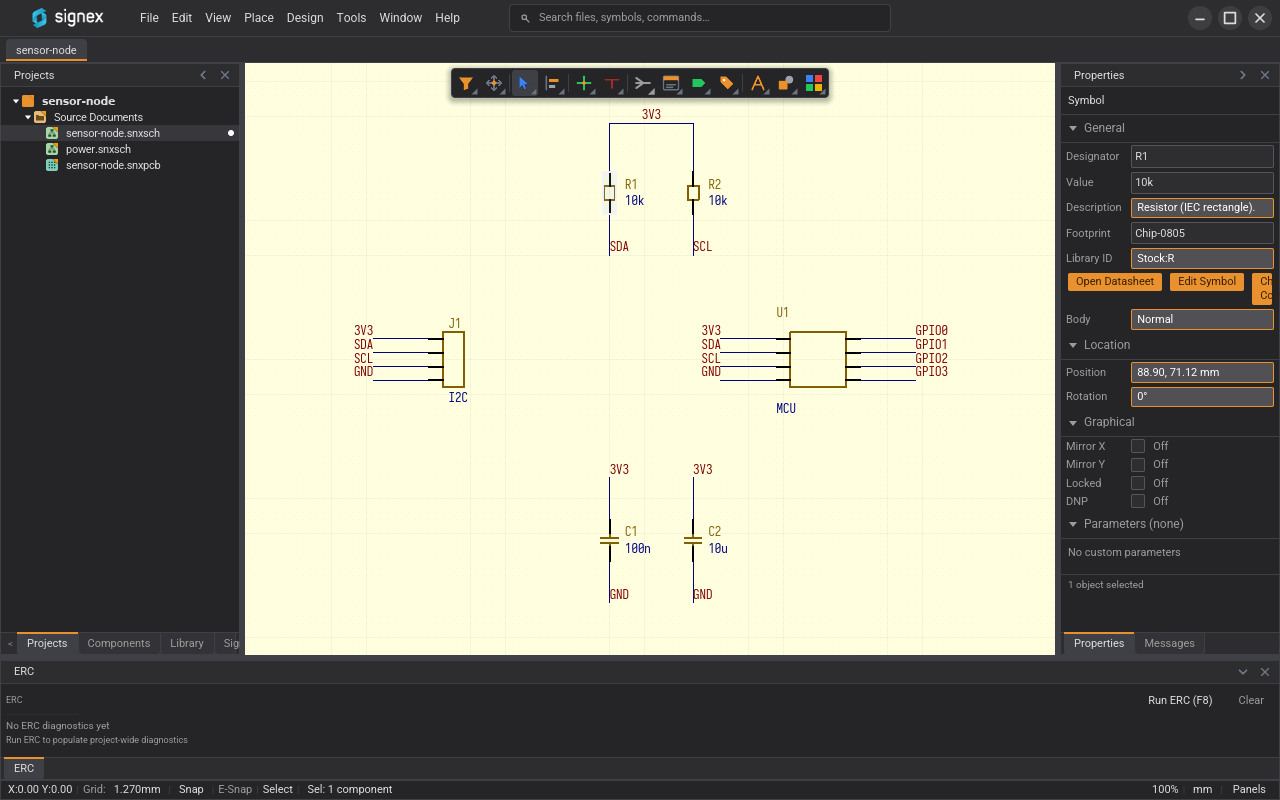
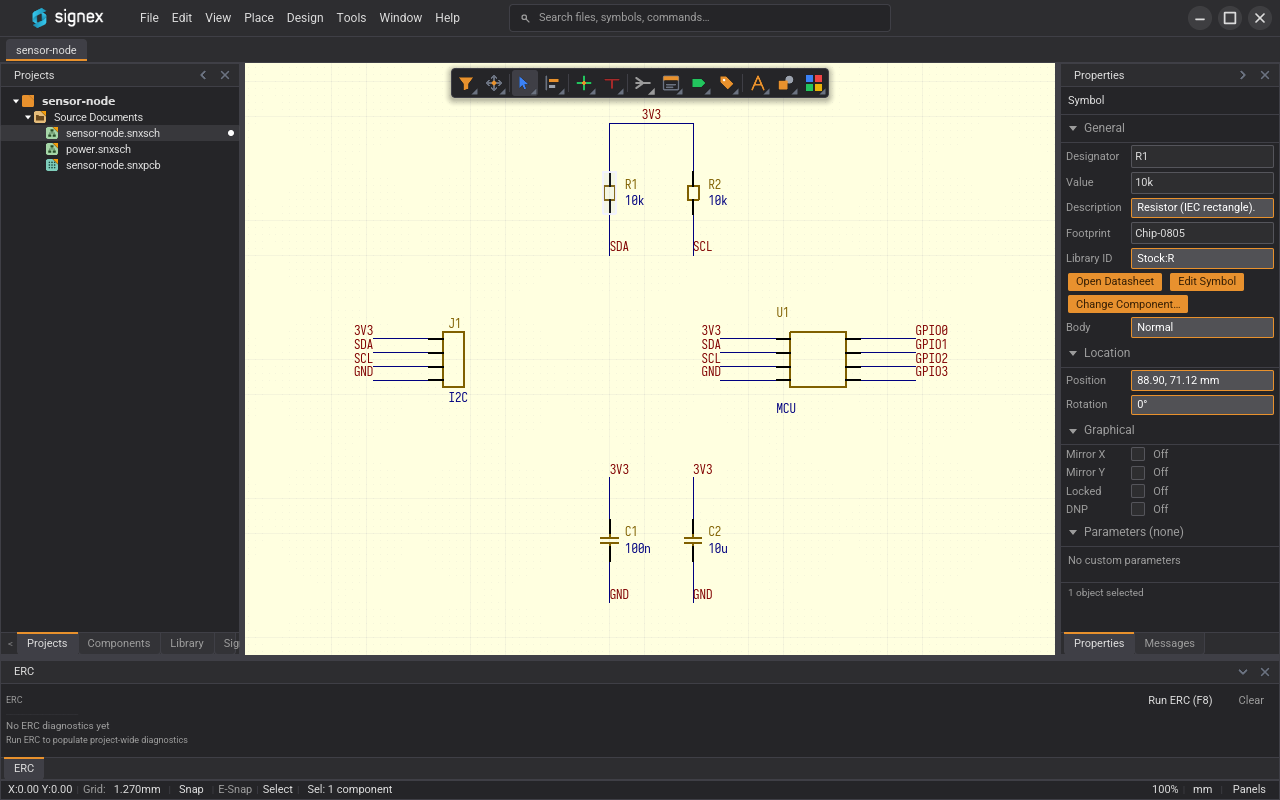
fix(properties): wrap the placed-part action row so no button is clipped (#1747)

Changed region(s): [[0.8125, 0.3438, 1.0, 0.75]]

diff --git a/crates/signex-app/src/panels/element_properties/library_rows.rs b/crates/signex-app/src/panels/element_properties/library_rows.rs
@@ -102,14 +102,19 @@ fn part_action_buttons() -> Vec<(&'static str, PanelMsg)> {
 /// A row of buttons for the actions that lead from the selected placed
 /// part into its library (#1301, #1262, #1260).
 pub(super) fn push_part_actions<'a>(c: Column<'a, PanelMsg>) -> Column<'a, PanelMsg> {
-    let mut buttons = iced::widget::row![].spacing(SP.m);
-    for (label, message) in part_action_buttons() {
-        buttons = buttons.push(
+    // Wrapping row: at a narrow dock width the last button drops to the
+    // next line instead of being clipped (#1747).
+    let buttons = iced::widget::Row::with_children(part_action_buttons().into_iter().map(
+        |(label, message)| {
             iced::widget::button(iced::widget::text(label).size(TS.body))
                 .padding([SP.xs, SP.m])
-                .on_press(message),
-        );
-    }
+                .on_press(message)
+                .into()
+        },
+    ))
+    .spacing(SP.m)
+    .wrap()
+    .vertical_spacing(SP.s);
     c.push(
         iced::widget::container(buttons)
             .padding([SP.xs, SP.m])
